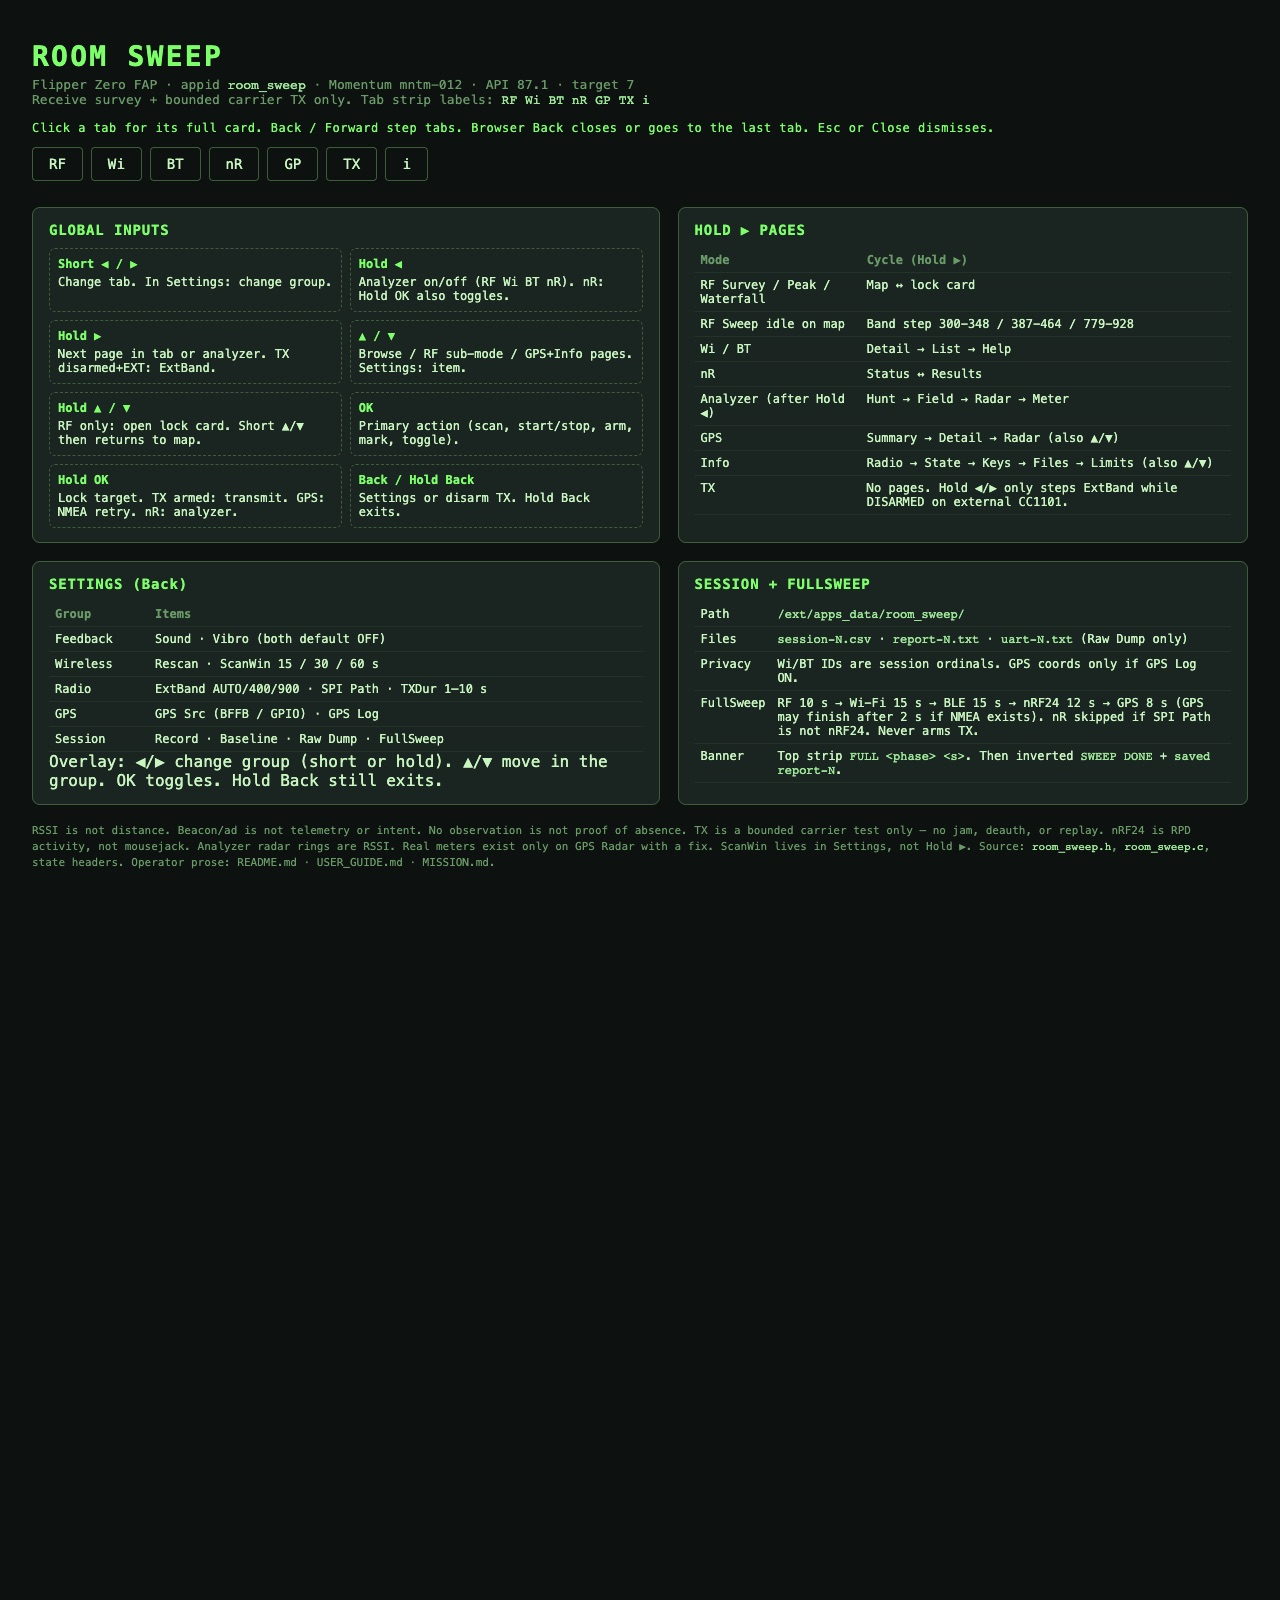
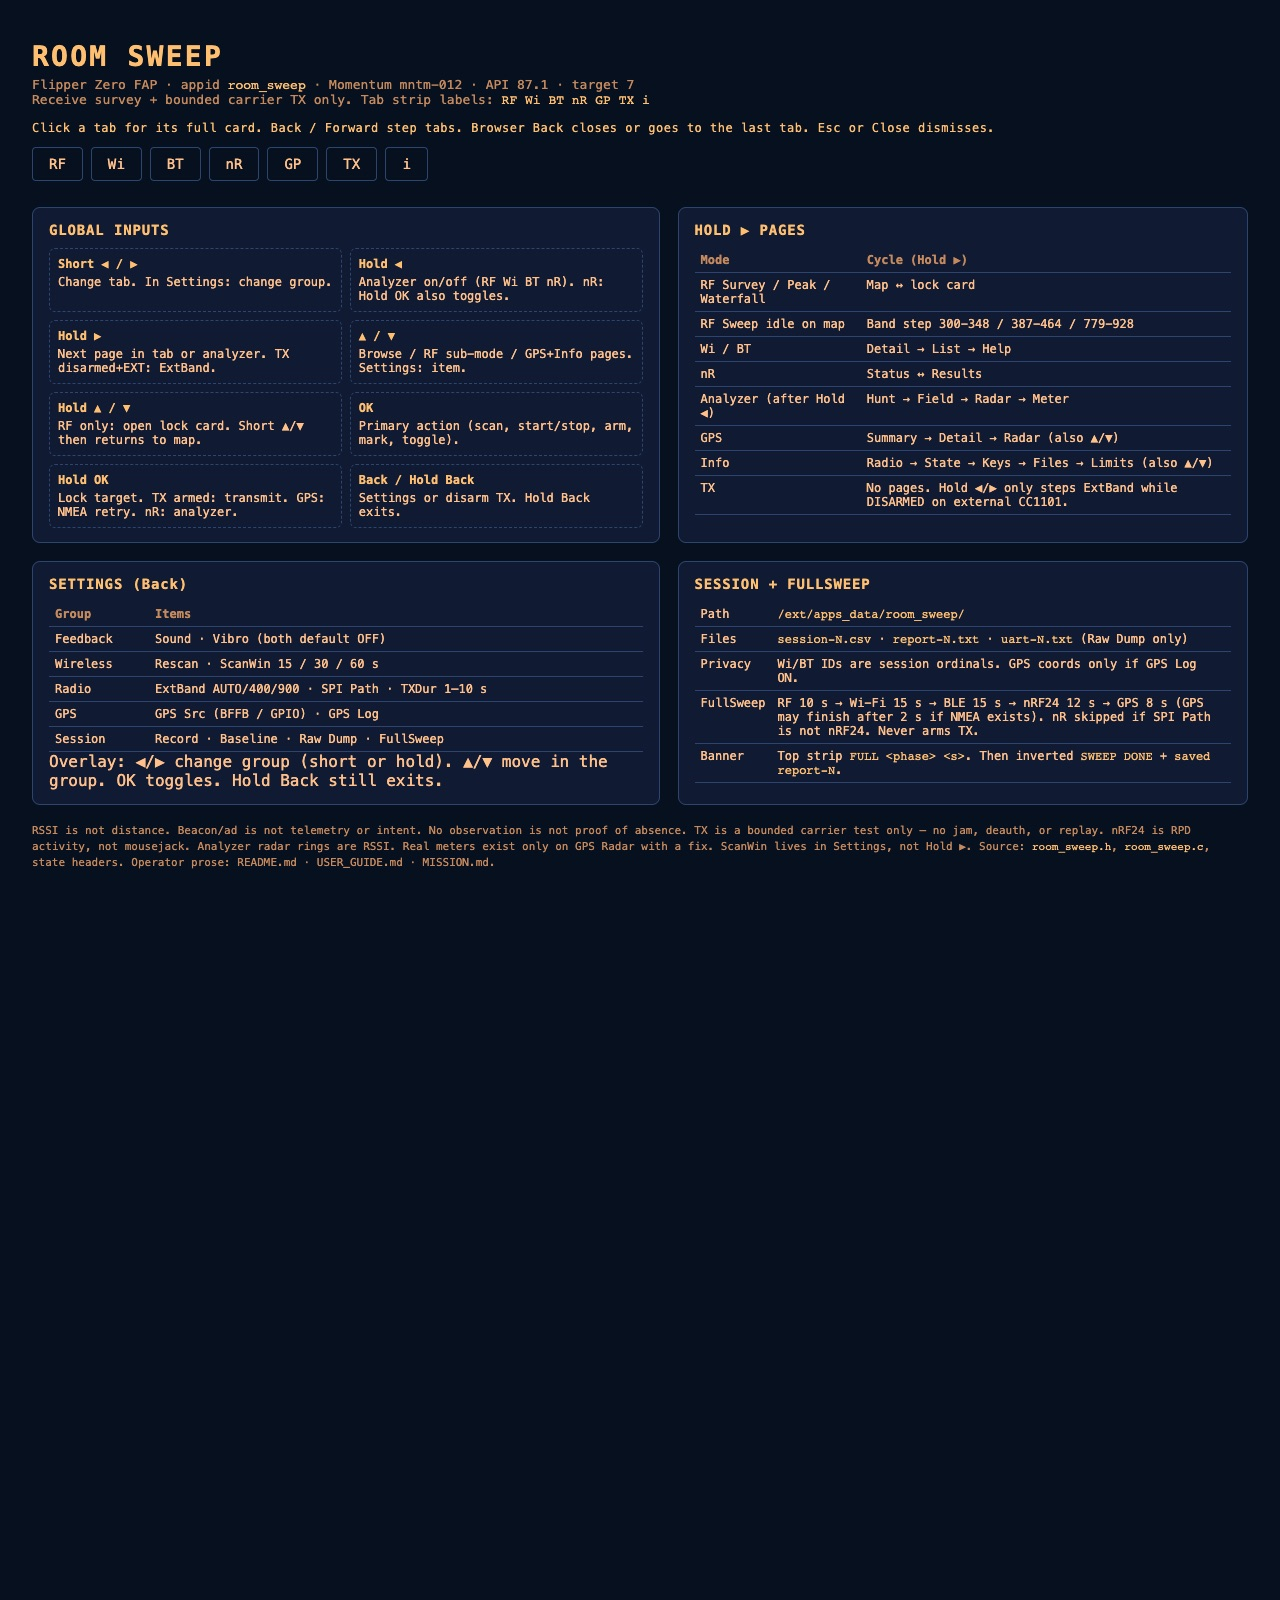
docs: midnight-blue map with peach-amber phosphor text
Retint the control map palette and recapture README shots so GitHub
matches the live page.

diff --git a/docs/room_sweep_control_map.html b/docs/room_sweep_control_map.html
@@ -5,13 +5,14 @@
   <title>Room Sweep — Control Map</title>
   <style>
     :root {
-      --bg: #0d1110;
-      --fg: #c8f5c0;
-      --dim: #6a9a68;
-      --box: #1a2420;
-      --line: #3d5c3a;
-      --hi: #7dff6a;
-      --hi-dim: #3a8a32;
+      --bg: #07101f;
+      --fg: #ffc08a;
+      --dim: #c4895c;
+      --box: #101a32;
+      --line: #2c456e;
+      --hi: #ffbf70;
+      --ink: #07101f;
+      --head: #0c1730;
     }
     * { box-sizing: border-box; }
     body {
@@ -58,7 +59,7 @@
       color: var(--hi);
       outline: none;
     }
-    .tab.on { background: var(--hi); color: #0a120a; font-weight: 700; }
+    .tab.on { background: var(--hi); color: var(--ink); font-weight: 700; }
     .grid {
       display: grid;
       grid-template-columns: 1.1fr 1fr;
@@ -80,7 +81,7 @@
     th, td {
       text-align: left;
       padding: 5px 6px;
-      border-bottom: 1px solid #24332a;
+      border-bottom: 1px solid var(--line);
       vertical-align: top;
     }
     th { color: var(--dim); font-weight: 600; }
@@ -102,7 +103,7 @@
       color: var(--dim);
       line-height: 1.45;
     }
-    code { color: #9fe89a; }
+    code { color: var(--hi); }
     .lede { color: var(--dim); font-size: 13px; margin: 0 0 16px; line-height: 1.45; }
 
     .modal {
@@ -115,7 +116,7 @@
     .modal-backdrop {
       position: absolute;
       inset: 0;
-      background: rgba(4, 8, 6, 0.86);
+      background: rgba(4, 10, 28, 0.88);
     }
     .modal-panel {
       position: absolute;
@@ -129,7 +130,7 @@
       display: flex;
       flex-direction: column;
       overflow: hidden;
-      box-shadow: 0 0 0 1px #0a120a, 0 24px 80px rgba(0, 0, 0, 0.55);
+      box-shadow: 0 0 0 1px var(--ink), 0 24px 80px rgba(2, 6, 18, 0.7);
     }
     .modal-head {
       display: flex;
@@ -137,7 +138,7 @@
       gap: 16px;
       padding: 16px 20px;
       border-bottom: 1px solid var(--line);
-      background: #101814;
+      background: var(--head);
     }
     .modal-kicker {
       color: var(--dim);
@@ -175,7 +176,7 @@
     .modal-body .keys { grid-template-columns: 1fr 1fr 1fr; }
     .nav-btn {
       border: 1px solid var(--line);
-      background: #101814;
+      background: var(--head);
       color: var(--fg);
       font-family: inherit;
       font-size: 13px;
